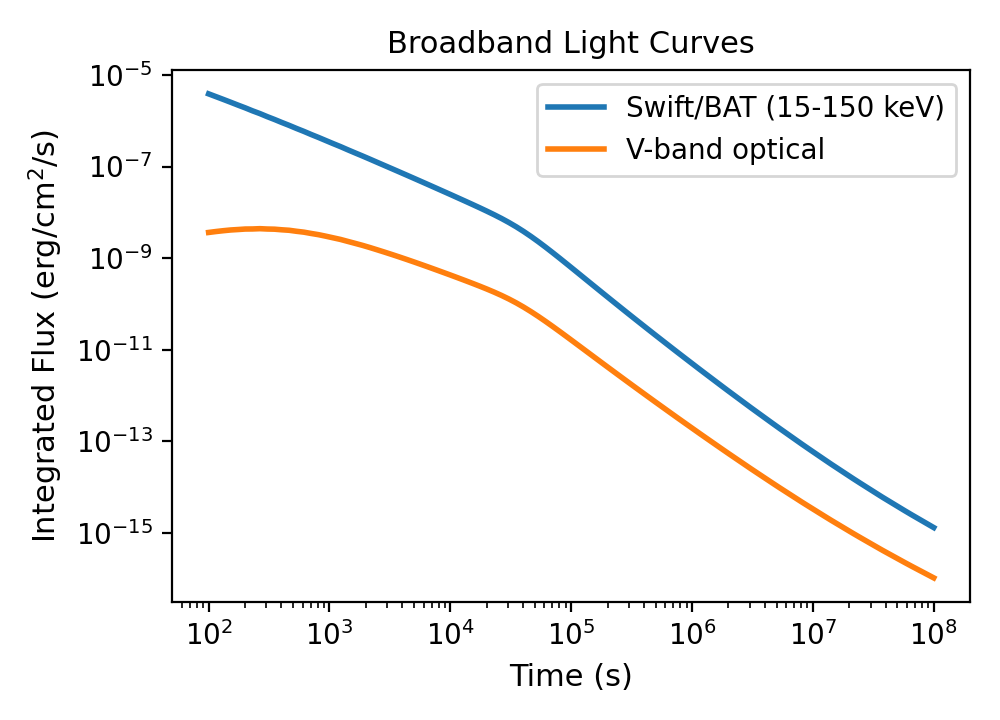
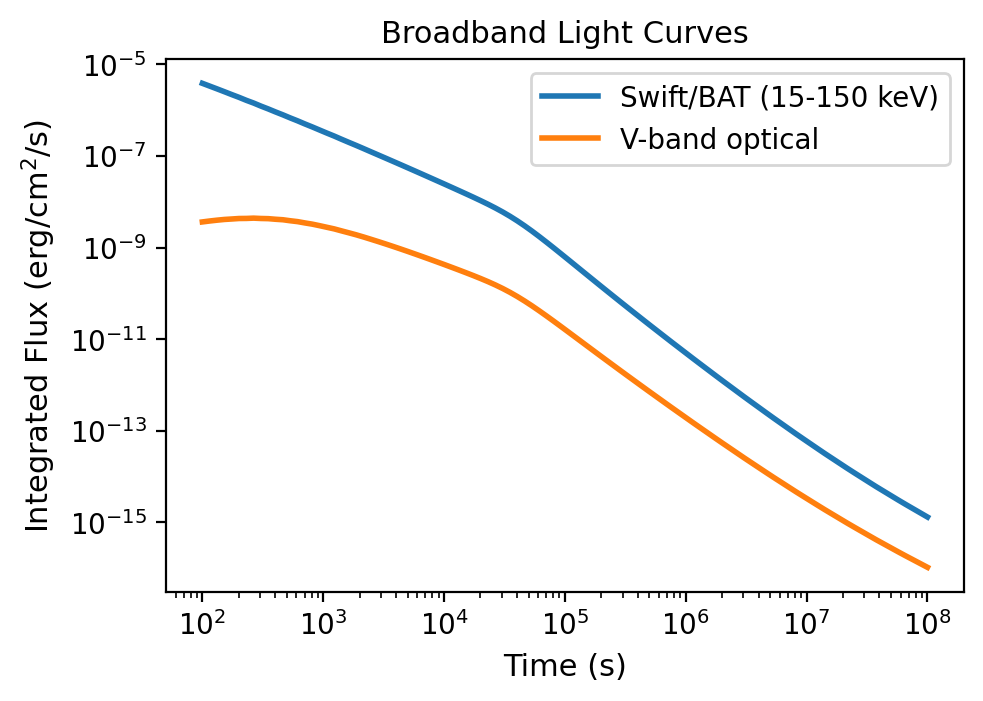
update docs

diff --git a/docs/source/gen_figures.py b/docs/source/gen_figures.py
@@ -52,7 +52,7 @@ def sky_image_single():
     ax.set_title(r"$t_{\rm obs} = 10^6$ s, $\nu = 1$ GHz")
     fig.colorbar(im, label=r"Surface brightness (erg/cm$^2$/s/Hz/sr)")
     plt.tight_layout()
-    fig.savefig(os.path.join(ASSETS_DIR, "sky_image_single.png"))
+    fig.savefig(os.path.join(ASSETS_DIR, "sky_image_single.png"), bbox_inches="tight")
     plt.close(fig)
     print("  -> sky_image_single.png")
 
@@ -89,7 +89,7 @@ def sky_image_offaxis():
         if i == 0:
             ax.set_ylabel(r"$\Delta y$ ($\mu$as)")
     fig.colorbar(im, ax=axes, label=r"erg/cm$^2$/s/Hz/sr", shrink=0.85)
-    fig.savefig(os.path.join(ASSETS_DIR, "sky_image_offaxis.png"))
+    fig.savefig(os.path.join(ASSETS_DIR, "sky_image_offaxis.png"), bbox_inches="tight")
     plt.close(fig)
     print("  -> sky_image_offaxis.png")
 
@@ -128,7 +128,7 @@ def sky_image_flux_comparison():
     ax2.set_xlabel("Observer time (s)")
     ax2.set_ylim(0.95, 1.05)
     plt.tight_layout()
-    fig.savefig(os.path.join(ASSETS_DIR, "sky_image_flux_comparison.png"))
+    fig.savefig(os.path.join(ASSETS_DIR, "sky_image_flux_comparison.png"), bbox_inches="tight")
     plt.close(fig)
     print("  -> sky_image_flux_comparison.png")
 
@@ -171,7 +171,7 @@ def reverse_shock_lc():
     ax.set_ylabel(r"Flux density (erg/cm$^2$/s/Hz)")
     ax.legend(fontsize=7, ncol=2)
     plt.tight_layout()
-    fig.savefig(os.path.join(ASSETS_DIR, "reverse_shock_lc.png"))
+    fig.savefig(os.path.join(ASSETS_DIR, "reverse_shock_lc.png"), bbox_inches="tight")
     plt.close(fig)
     print("  -> reverse_shock_lc.png")
 
@@ -202,7 +202,7 @@ def ssc_lc():
     ax.set_ylabel(r"Flux density (erg/cm$^2$/s/Hz)")
     ax.legend(fontsize=7, ncol=2)
     plt.tight_layout()
-    fig.savefig(os.path.join(ASSETS_DIR, "ssc_lc.png"))
+    fig.savefig(os.path.join(ASSETS_DIR, "ssc_lc.png"), bbox_inches="tight")
     plt.close(fig)
     print("  -> ssc_lc.png")
 
@@ -251,7 +251,7 @@ def basic_lightcurves():
     ax2.set_title("Synchrotron Spectra")
 
     plt.tight_layout()
-    fig.savefig(os.path.join(ASSETS_DIR, "basic_lc_spec.png"))
+    fig.savefig(os.path.join(ASSETS_DIR, "basic_lc_spec.png"), bbox_inches="tight")
     plt.close(fig)
     print("  -> basic_lc_spec.png")
 
@@ -276,7 +276,7 @@ def basic_bolometric():
     ax.legend()
     ax.set_title("Broadband Light Curves")
     plt.tight_layout()
-    fig.savefig(os.path.join(ASSETS_DIR, "basic_bolometric.png"))
+    fig.savefig(os.path.join(ASSETS_DIR, "basic_bolometric.png"), bbox_inches="tight")
     plt.close(fig)
     print("  -> basic_bolometric.png")
 
@@ -308,7 +308,7 @@ def introspection_jet():
     ax2.grid(True, alpha=0.3)
 
     plt.tight_layout()
-    fig.savefig(os.path.join(ASSETS_DIR, "introspection_jet.png"))
+    fig.savefig(os.path.join(ASSETS_DIR, "introspection_jet.png"), bbox_inches="tight")
     plt.close(fig)
     print("  -> introspection_jet.png")
 
@@ -325,8 +325,7 @@ def introspection_medium():
     theta = 0.1
     r = np.logspace(13, 20, 200)
     rho_profile = model.medium(phi, theta, r)
-    mu = 1.3  # mean molecular weight (accounts for helium)
-    n_profile = rho_profile / (mu * 1.67e-24)
+    n_profile = rho_profile / 1.67e-24  # approximate number density (assuming pure hydrogen)
 
     fig, ax = plt.subplots(figsize=(5, 4), dpi=200)
     ax.loglog(r, n_profile)
@@ -338,7 +337,7 @@ def introspection_medium():
     ax.axhline(0.1, color="blue", ls="--", alpha=0.7, label=r"Outer ISM density ($n_{\rm ism}$)")
     ax.legend()
     plt.tight_layout()
-    fig.savefig(os.path.join(ASSETS_DIR, "introspection_medium.png"))
+    fig.savefig(os.path.join(ASSETS_DIR, "introspection_medium.png"), bbox_inches="tight")
     plt.close(fig)
     print("  -> introspection_medium.png")
 
@@ -377,7 +376,7 @@ def introspection_twocomp():
     ax2.grid(True, alpha=0.3)
 
     plt.tight_layout()
-    fig.savefig(os.path.join(ASSETS_DIR, "introspection_twocomp.png"))
+    fig.savefig(os.path.join(ASSETS_DIR, "introspection_twocomp.png"), bbox_inches="tight")
     plt.close(fig)
     print("  -> introspection_twocomp.png")
 
